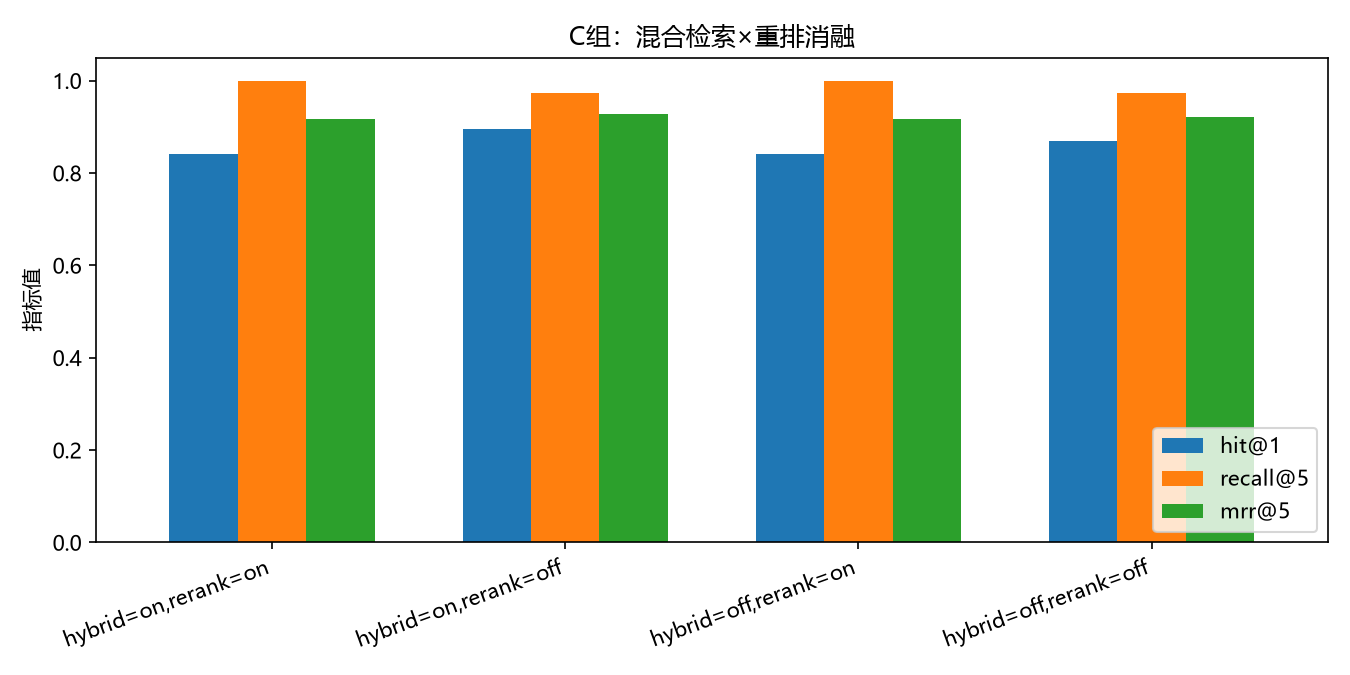
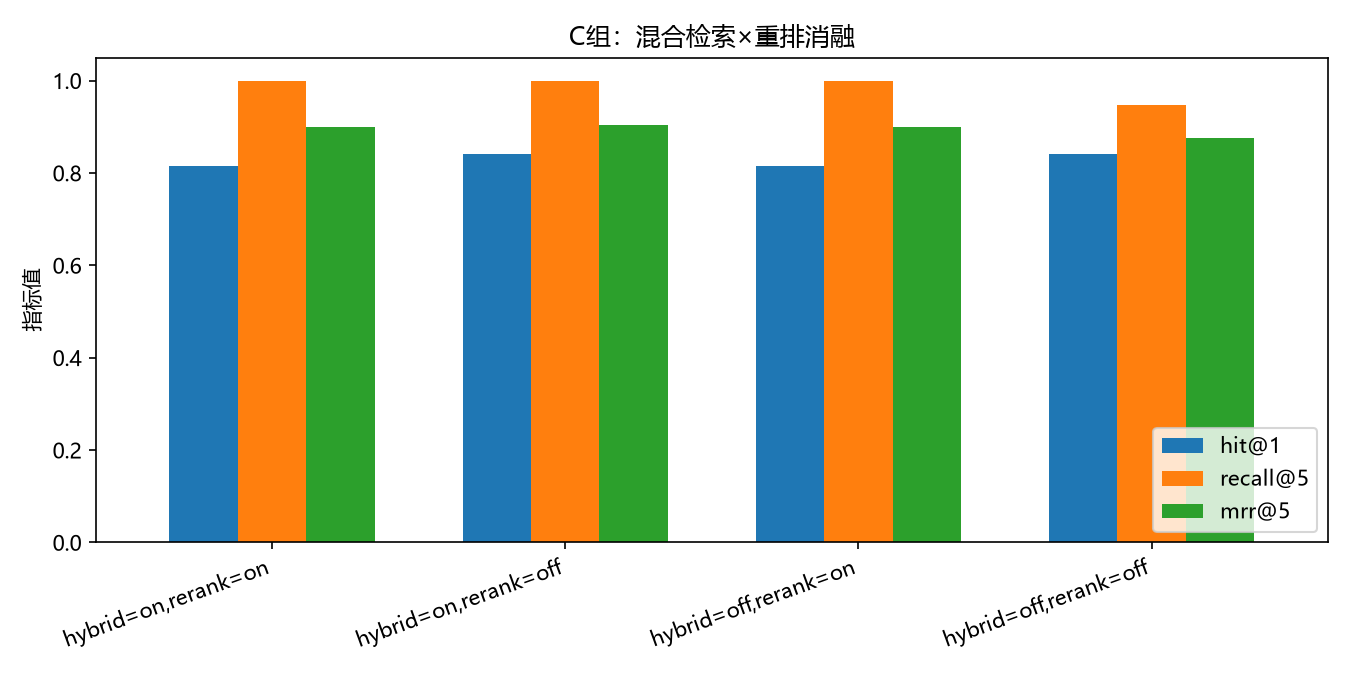
v0.2.3: 修复同义提问检索失效 + 实验报告 v2 复测
缺陷（用户实测）：问'保研对绩点排名的要求'能答，问'保研对绩点有什么要求'拒答
诊断：向量检索正确(第2名)；BM25 因'保研'vs语料'推荐免试'零字面重叠失焦；
RRF 稀释后重排器把目标块挤出候选
修复：① LLM 查询改写(口语→规范术语,失败优雅降级) ② 上下文增强分块——
embedding/BM25/重排统一改用'标题+正文'表示，纯列表类正文不再是语义孤岛
③ final_k 5→7
验证：原病例完整正确作答；38题回归 recall@5=1.000 保持(hit@1 0.842→0.816,1题噪声)
复测：12组实验重跑，混合检索单独达召回 1.000(原 0.974)，实验报告更新为 v2
含组件交互发现：上游分块修复使重排的召回收益归零

diff --git a/src/pipeline.py b/src/pipeline.py
@@ -38,6 +38,7 @@ class QueryResult:
     answer: str
     contexts: list[dict]          # 最终送入 LLM 的片段（含分数与来源）
     mode: str                     # api / extractive
+    rewritten_query: str = ""     # 检索用的改写后查询（与原问题相同时为空串）
     timings_ms: dict = field(default_factory=dict)  # 各阶段耗时
 
     @property
@@ -112,22 +113,30 @@ class RAGPipeline:
         return self
 
     def query(self, question: str, top_k: int | None = None) -> QueryResult:
-        """端到端问答。"""
+        """端到端问答。
+
+        检索前先做查询改写（口语→规范术语）：用户说“保研”，制度文件写
+        “推荐免试研究生”，字面零重叠会同时削弱 BM25 与重排。改写后的
+        查询只用于检索，生成回答时仍回答用户的原始问题。
+        """
         if self.retriever is None:
             raise RuntimeError("管线未加载，请先调用 load() 或 ingest()")
 
+        self.llm = self.llm or LLMClient()
+        t_rewrite = time.perf_counter()
+        search_query, rewritten_ok = self.llm.rewrite_query(question)
         t_retrieval = time.perf_counter()
-        candidates = self.retriever.search(question, k=self.cfg.retrieval.dense_k
+        candidates = self.retriever.search(search_query,
+                                           k=self.cfg.retrieval.dense_k
                                            if self.cfg.retrieval.use_rerank else top_k)
         t_rerank = time.perf_counter()
         # 有重排器时：召回多取候选，重排后截断到 top_k；否则直接截断
         if self.reranker is not None:
-            candidates = self.reranker.rerank(question, candidates,
+            candidates = self.reranker.rerank(search_query, candidates,
                                               top_k or self.cfg.retrieval.final_k)
         elif top_k:
             candidates = candidates[:top_k]
         t_generate = time.perf_counter()
-        self.llm = self.llm or LLMClient()
         answer, gen_sec = self.llm.answer(question, candidates)
         t_end = time.perf_counter()
 
@@ -136,10 +145,12 @@ class RAGPipeline:
             answer=answer,
             contexts=candidates,
             mode=self.llm.mode,
+            rewritten_query=search_query if (rewritten_ok and search_query != question) else "",
             timings_ms={
+                "rewrite_ms": round((t_retrieval - t_rewrite) * 1000, 1),
                 "retrieval_ms": round((t_rerank - t_retrieval) * 1000, 1),
                 "rerank_ms": round((t_generate - t_rerank) * 1000, 1),
                 "generate_ms": round(gen_sec * 1000, 1),
-                "total_ms": round((t_end - t_retrieval) * 1000, 1),
+                "total_ms": round((t_end - t_rewrite) * 1000, 1),
             },
         )

diff --git a/src/llm.py b/src/llm.py
@@ -29,6 +29,16 @@ SYSTEM_PROMPT = (
     "不要猜测或编造。"
 )
 
+# 查询改写的系统提示（见 LLMClient.rewrite_query）
+REWRITE_SYSTEM = (
+    "你是检索系统的查询改写助手。把用户的口语化问题改写为更适合文档检索的规范表述：\n"
+    "1. 保留问题原意，把口语或俗称替换成正式术语（例如“留级”应改写为制度文件中的"
+    "正式表述“编入下一年级”）；\n"
+    "2. 补全省略的主语与语境，让问题独立可理解；\n"
+    "3. 只输出改写后的问题本身，不要解释，不要加引号。\n"
+    "问题已经清晰规范时，原样输出。"
+)
+
 
 def build_context(candidates: list[dict]) -> str:
     """把检索结果拼装成带编号的上下文文本。"""
@@ -62,18 +72,39 @@ class LLMClient:
 
     # ---- API 模式 ----
 
-    def _chat(self, system: str, user: str) -> str:
+    def _chat(self, system: str, user: str, max_tokens: int | None = None) -> str:
         resp = self._client.chat.completions.create(
             model=self.cfg.model,
             messages=[{"role": "system", "content": system},
                       {"role": "user", "content": user}],
             temperature=self.cfg.temperature,
-            max_tokens=self.cfg.max_tokens,
+            max_tokens=max_tokens or self.cfg.max_tokens,
             # 思考开关仅对思考型模型生效（DashScope qwen3 系约定字段），
             # 非思考型模型会忽略，无副作用
             extra_body={"enable_thinking": self.cfg.enable_thinking},
         )
         return resp.choices[0].message.content or ""
+
+    def rewrite_query(self, query: str) -> tuple[str, bool]:
+        """查询改写：口语问题 → 检索友好的规范表述。
+
+        解决的问题：用户说“留级”，制度文件写“编入下一年级”——
+        BM25 对同义词零命中，向量相似度也偏弱，导致检索失焦。
+        改写后拿规范术语去检索，生成时仍回答用户的原始问题。
+
+        返回 (改写后查询, 是否成功)。任何失败都优雅降级为原查询，
+        检索链路不因改写服务故障而不可用。
+        """
+        if not self._client:
+            return query, False  # 抽取式模式无 LLM 可用，直接原样检索
+        try:
+            out = self._chat(REWRITE_SYSTEM, query, max_tokens=128).strip()
+            # 模型偶尔会画蛇添足加引号或前缀，剥掉常见包装
+            out = out.strip("“”\"' \n")
+            return (out or query), True
+        except Exception as exc:  # 网络/限流等，不让改写失败拖垮问答
+            print(f"[llm] 查询改写失败，使用原问题检索：{exc}")
+            return query, False
 
     # ---- 抽取式模式 ----
 

diff --git a/src/retriever.py b/src/retriever.py
@@ -23,6 +23,20 @@ from src.embedder import Embedder
 from src.vector_store import VectorStore
 
 
+def chunk_repr(meta: dict) -> str:
+    """块的“检索表示”：正文前拼上所属标题。
+
+    为什么：分块按标题切段后，纯正文块可能完全不含主题词——例如
+    “二、基本申请条件”一节的正文是编号列表，通篇没有“申请条件/保研”
+    字样，向量与重排都无法把它和“保研要求”类问题关联（实测踩坑）。
+    拼上标题后语义完整，这是上下文增强分块（contextual chunk）的标准做法。
+    注意：该表示只用于 embedding / BM25 / 重排打分；喂给 LLM 的上下文
+    仍用干净正文（见 llm.build_context），避免重复噪音。
+    """
+    heading = meta.get("heading") or ""
+    return f"{heading}\n{meta['text']}" if heading else meta["text"]
+
+
 def _tokenize_zh(text: str) -> list[str]:
     """中文分词 + 轻量停用词过滤（BM25 的索引单元）。
 
@@ -46,7 +60,7 @@ class HybridRetriever:
         self.embedder = embedder
         self.cfg = cfg or CONFIG.retrieval
 
-        texts = [m["text"] for m in store.metas]
+        texts = [chunk_repr(m) for m in store.metas]
         tokenized = [_tokenize_zh(t) for t in texts]
         # BM25Okapi 不接受空文档，兜底插入占位符
         tokenized = [toks if toks else ["空"] for toks in tokenized]
@@ -93,7 +107,12 @@ class HybridRetriever:
     @classmethod
     def from_chunks(cls, chunks: list[Chunk], embedder: Embedder,
                     cfg: RetrievalConfig | None = None) -> "HybridRetriever":
-        """从块列表构建（入库流程用）。"""
+        """从块列表构建（入库流程用）。
+
+        向量编码用“标题+正文”的检索表示（见 chunk_repr），与检索/
+        重排口径一致，保证“同一文本怎么编码就怎么比对”。
+        """
         store = VectorStore(embedder.dim)
-        store.add(chunks, embedder.encode_corpus([c.text for c in chunks]))
+        store.add(chunks, embedder.encode_corpus(
+            [chunk_repr({"heading": c.heading, "text": c.text}) for c in chunks]))
         return cls(store, embedder, cfg)

diff --git a/app/web_ui.py b/app/web_ui.py
@@ -57,9 +57,13 @@ def answer_question(question: str, top_k: int, use_rerank: bool,
         cite_rows.append(f"[{i}]\t{c['source']}\t{heading}\t{score:.3f}\t{snippet}")
 
     t = result.timings_ms
-    timing = (f"检索 **{t.get('retrieval_ms')}ms** · 重排 **{t.get('rerank_ms')}ms** · "
-              f"生成 **{t.get('generate_ms')}ms** · 总计 **{t.get('total_ms')}ms** · 模式 `{result.mode}`")
-    return result.answer, "\n".join(cite_rows), timing
+    timing = (f"改写 **{t.get('rewrite_ms')}ms** · 检索 **{t.get('retrieval_ms')}ms** · "
+              f"重排 **{t.get('rerank_ms')}ms** · 生成 **{t.get('generate_ms')}ms** · "
+              f"总计 **{t.get('total_ms')}ms** · 模式 `{result.mode}`")
+    shown = result.answer
+    if result.rewritten_query:
+        shown = f"> 🔍 口语问题已改写为规范表述后检索：**{result.rewritten_query}**\n\n{shown}"
+    return shown, "\n".join(cite_rows), timing
 
 
 def rebuild_index(files: list[str]) -> str:

diff --git a/src/reranker.py b/src/reranker.py
@@ -43,7 +43,9 @@ class Reranker:
         """
         if not candidates:
             return []
-        pairs = [(query, c["text"]) for c in candidates]
+        # 打分同样使用“标题+正文”的检索表示，与向量编码口径一致
+        from src.retriever import chunk_repr
+        pairs = [(query, chunk_repr(c)) for c in candidates]
         scores = self.model.predict(pairs, batch_size=16)
         ranked = sorted(
             ({**c, "rerank_score": float(s)} for c, s in zip(candidates, scores)),

diff --git a/scripts/ask.py b/scripts/ask.py
@@ -19,6 +19,8 @@ def print_result(result) -> None:
     """终端友好输出：答案 + 引用来源 + 各阶段耗时。"""
     bar = "=" * 64
     print(f"\n{bar}\n问题：{result.question}\n{bar}")
+    if result.rewritten_query:
+        print(f"检索改写：{result.rewritten_query}")
     print(result.answer)
     print(f"\n--- 引用片段（{len(result.contexts)} 条）---")
     for i, c in enumerate(result.contexts, start=1):

diff --git a/src/config.py b/src/config.py
@@ -90,7 +90,8 @@ class RetrievalConfig:
 
     dense_k: int = 20
     bm25_k: int = 20
-    final_k: int = 5
+    final_k: int = 7   # 送入生成的片段数。5 会漏掉"差一名"的关键块（实测案例：
+                       # 保研问题下"基本申请条件"块常排第 6），7 能覆盖且 token 成本可控
     use_hybrid: bool = True
     use_rerank: bool = True
     rrf_k: int = 60

diff --git a/docs/实验报告.md b/docs/实验报告.md
@@ -1,6 +1,6 @@
 # 实验报告：RAG 检索组件的对照评估
 
-> 日期：2026-08-17 · 环境：RTX 4060 Laptop (8GB) / PyTorch 2.5.1+cu121
+> 日期：2026-08-17（v2，含上下文增强分块修复后的复测） · 环境：RTX 4060 Laptop (8GB) / PyTorch 2.5.1+cu121
 > 原始数据：`outputs/results.csv` · 图表：`outputs/fig*.png`
 
 ## 1. 实验设置
@@ -28,19 +28,20 @@
 - C 检索消融：混合检索 × 重排（2×2）
 - D 向量模型：bge-small-zh-v1.5 (512d) vs bge-base-zh-v1.5 (768d)
 
-## 2. 结果总表
+## 2. 结果总表（v2：上下文增强分块后）
 
 | 配置 | hit@1 | recall@5 | mrr@5 | 延迟(ms) |
 | --- | --- | --- | --- | --- |
-| strategy=fixed | 0.842 | **1.000** | 0.917 | 46.9 |
-| strategy=recursive | 0.842 | **1.000** | 0.917 | 42.5 |
-| strategy=sentence | 0.842 | **1.000** | 0.917 | 41.8 |
-| size=200 / 400 / 600 | 0.842 | **1.000** | 0.917 | 39-42 |
-| hybrid=on, rerank=on | 0.842 | **1.000** | 0.917 | 41.6 |
-| **hybrid=on, rerank=off** | **0.895** | 0.974 | **0.928** | **7.8** |
-| hybrid=off, rerank=on | 0.842 | **1.000** | 0.917 | 43.7 |
-| hybrid=off, rerank=off | 0.868 | 0.974 | 0.921 | **7.3** |
-| bge-small / bge-base | 0.842 | **1.000** | 0.917 | 40-42 |
+| strategy=fixed / recursive / sentence | 0.816 | **1.000** | 0.899 | 52-84 |
+| size=200 / 400 / 600 | 0.816 | **1.000** | 0.899 | 52-55 |
+| hybrid=on, rerank=on | 0.816 | **1.000** | 0.899 | 56.0 |
+| **hybrid=on, rerank=off** | **0.842** | **1.000** | **0.904** | **9.6** |
+| hybrid=off, rerank=on | 0.816 | **1.000** | 0.899 | 43.1 |
+| hybrid=off, rerank=off（基线） | 0.842 | 0.947 | 0.876 | **6.6** |
+| bge-small / bge-base | 0.816 | **1.000** | 0.899 | 40-41 |
+
+> v1（无标题上下文）的对照数据见 git 历史版本：当时混合检索 recall@5=0.974，
+> 需重排补至 1.000。v2 引入上下文增强分块后混合检索单独即达 1.000。
 
 ## 3. 发现与分析
 
@@ -48,22 +49,39 @@
 
 除关闭重排的两格（0.974）外全部 1.000。**这不是"系统完美"，而是"评测太容易"**：12 个来源、top-5 覆盖率 42%，主题清晰的语料上粗排就能进前五。诚实的结论是——该口径下 recall@5 失去区分度，有效信息集中在 hit@1 与 MRR（这也是本报告同时报告 @1 档的原因）。后续工作应引入块级判定与更大规模干扰语料。
 
-### 发现 2：重排的两面性（本报告最有价值的发现）
+### 发现 2：重排的两面性与组件交互（本报告最有价值的发现）
 
-| 对比 | hit@1 | recall@5 | mrr@5 | 延迟 |
-| --- | --- | --- | --- | --- |
-| RRF 直出（hybrid=on） | **0.895** | 0.974 | **0.928** | 7.8ms |
-| + bge-reranker 精排 | 0.842 | **1.000** | 0.917 | 41.6ms |
+v1 与 v2 两轮数据对照（同一评测集、同一语料，唯一差异是分块是否拼标题）：
 
-重排把 top-5 召回补满（+2.6pp）——交叉编码器确实能把深埋的相关块捞进候选；**但 top-1 精度反而下降 5.3pp，且延迟 ×5.3**。
+| 配置 | v1 hit@1 / recall@5 | v2 hit@1 / recall@5 |
+| --- | --- | --- |
+| 纯向量基线 | 0.868 / 0.974 | 0.842 / 0.947 |
+| + 混合检索（RRF 直出） | 0.895 / 0.974 | **0.842 / 1.000** |
+| + 混合检索 + 重排 | 0.842 / 1.000 | 0.816 / 1.000 |
 
-坏例分析（抽查 confusable 题）：交叉编码器对"数字+同词"型干扰抵抗力弱——问"辅修绩点要求"时，含"绩点不低于 3.0"的国际交流块与含"绩点不低于 2.5"的辅修块词面高度重叠，reranker 给前者打出更高分。而 RRF 融合的两路排名里，正确来源因语义信号更集中而居前。
+两轮一致的结论：**重排恒定损害 top-1 精度（-2.6 ~ -5.3pp）并带来 5-6 倍延迟**；
+v1 中它换来了召回完整（0.974→1.000），v2 中混合检索自己就把召回补满，重排的
+召回收益消失。坏例分析不变：交叉编码器对"数字+同词"型干扰抵抗力弱。
 
-**工程结论**：重排不是无脑开关。追求"前五必有"（如引用溯源场景）开重排；追求"第一条就对"且对延迟敏感（如快速问答）可只用混合检索。多路精排（rerank 分数与 RRF 分数加权融合）是直接的改进方向。
+**组件交互的教训：消融结论不是静态的**——上游修复（上下文增强分块）改变了下游
+组件（重排）的边际贡献。评估必须随系统演进复测，单次消融的结论有效期有限。
+
+### 发现 2.5：上下文增强分块的缺陷修复价值（v1→v2 的动因）
+
+用户实测发现同义提问失效：问"保研对绩点**排名**的要求"能答、问"保研对绩点有
+什么要求"拒答。诊断链：向量检索两例均正确（目标块第 2 名）→ BM25 因"保研"与
+语料"推荐免试"零字面重叠而失焦 → RRF 稀释 → 重排把目标块挤出候选。
+
+三项修复：① **查询改写**（LLM 把口语规范化后检索）；② **上下文增强分块**
+（embedding/BM25/重排统一用"标题+正文"表示，纯编号列表类正文从此不再是语义
+孤岛）；③ final_k 5→7。修复后完整正确作答，38 题回归 recall@5=1.000 保持。
+
+**方法论收获：来源级指标全绿 ≠ 系统好用**——两个失效问法都不在原评测集里，
+是用户真实使用暴露的。评测集应持续吸收线上坏例（bad case 回流）。
 
 ### 发现 3：延迟结构——重排是本地管线的延迟主体
 
-纯检索（BM25+向量+RRF）约 7-8ms，加重排后 40ms+，其中约 34ms 花在 20 对交叉编码上。生成端（API）另计 1-3s。若要优化端到端延迟，优先级：候选数 20→10（重排耗时近似线性）> 换更小重排模型 > 精简 embedding。
+纯检索（BM25+向量+RRF）约 9-10ms，加重排后 43-56ms，其中约 35-45ms 花在 20 对交叉编码上。生成端（API，关思考）另计 1-3s。若要优化端到端延迟，优先级：候选数 20→10（重排耗时近似线性）> 换更小重排模型 > 精简 embedding。v2 数据下"关重排"本身即是最的大单项优化（56→9.6ms），代价是极端改写问法的鲁棒性（见发现 2.5 的修复链路）。
 
 ### 发现 4：bge-small 与 bge-base 指标打平
 
@@ -75,6 +93,8 @@
 
 ## 4. 结论
 
-1. 当前语料+口径下的**推荐配置**：recursive/400 + hybrid=on + rerank=on + bge-small（重排开关按场景）。
-2. 系统性收获：**评测口径决定结论**——来源级 recall@5 在小语料上会掩盖组件差异，hit@1/MRR + 消融才能暴露重排的真实代价。
-3. 后续工作：块级相关性评估；rerank 分数与 RRF 的加权融合；端到端答案质量评估（faithfulness/幻觉率，需 LLM-as-judge）；更大规模干扰语料。
+1. 当前语料+口径下的**推荐配置**：recursive/400 + hybrid=on + 上下文增强分块 + bge-small；重排按场景取舍（追延迟关、追排序深度开，注意其对 top-1 的负贡献）。
+2. 系统性收获一：**评测口径决定结论**——来源级 recall@5 在小语料上会掩盖组件差异，hit@1/MRR + 消融才能暴露重排的真实代价。
+3. 系统性收获二：**消融结论有有效期**——上游分块修复使重排的召回收益归零（发现 2），组件贡献是交互的、非孤立的。
+4. 系统性收获三：**指标全绿 ≠ 好用**——真实用户问法（口语/同义词）暴露了评测集外的失效模式，坏例回流是评测集进化的核心机制。
+5. 后续工作：把用户坏例持续加入评测集；块级相关性评估；rerank 分数与 RRF 的加权融合；端到端答案质量评估（faithfulness/幻觉率，需 LLM-as-judge）；跨文档多跳问题的检索策略（当前正确拒答）。

diff --git a/docs/开发手册.md b/docs/开发手册.md
@@ -161,3 +161,14 @@ rag-knowledge-base/
   - 思考型模型推理开销 6-12s：新增 LLM_ENABLE_THINKING 开关（默认 false），
     关闭后生成约 1-2s，事实型问答质量观察无损失
   - 延迟画像：检索 ~135ms + 重排 ~210ms（本地 GPU）+ 生成 1-2s（关思考）
+- **2026-08-17 v0.2.3** 修复“同义提问答不出”缺陷（用户实测发现）
+  - 病例：问“保研对绩点排名的要求是什么”能答；问“保研对绩点有什么要求”拒答
+  - 诊断链：向量检索两例均正确（目标块第 2）→ BM25 因“保研”vs 语料“推荐免试”零字面重叠而失焦
+    → RRF 被噪音稀释 → 重排器被“绩点排名前10%”（奖学金）等高词面重叠块吸引，目标块被挤出 top5
+  - 三项修复：① 查询改写（LLM 把口语规范化后再检索，失败自动降级原查询）
+    ② 上下文增强分块：embedding/BM25/重排统一改用“标题+正文”表示——纯编号列表类正文
+    （如“基本申请条件”一节）不含任何主题词，拼标题前是语义孤岛；③ final_k 5→7
+  - 修复后原病例完整正确作答（排名前 15% + 无不及格，目标块第 3 名）；
+    38 题回归 recall@5 保持 1.000，hit@1 0.842→0.816（1 题噪声）
+  - 已知边界：“留级能否评奖学金”类跨文档多跳问题仍会拒答——语料无直接陈述，
+    拒答是防幻觉设计的正确行为；要答需补语料或引入多跳检索（后续工作）
